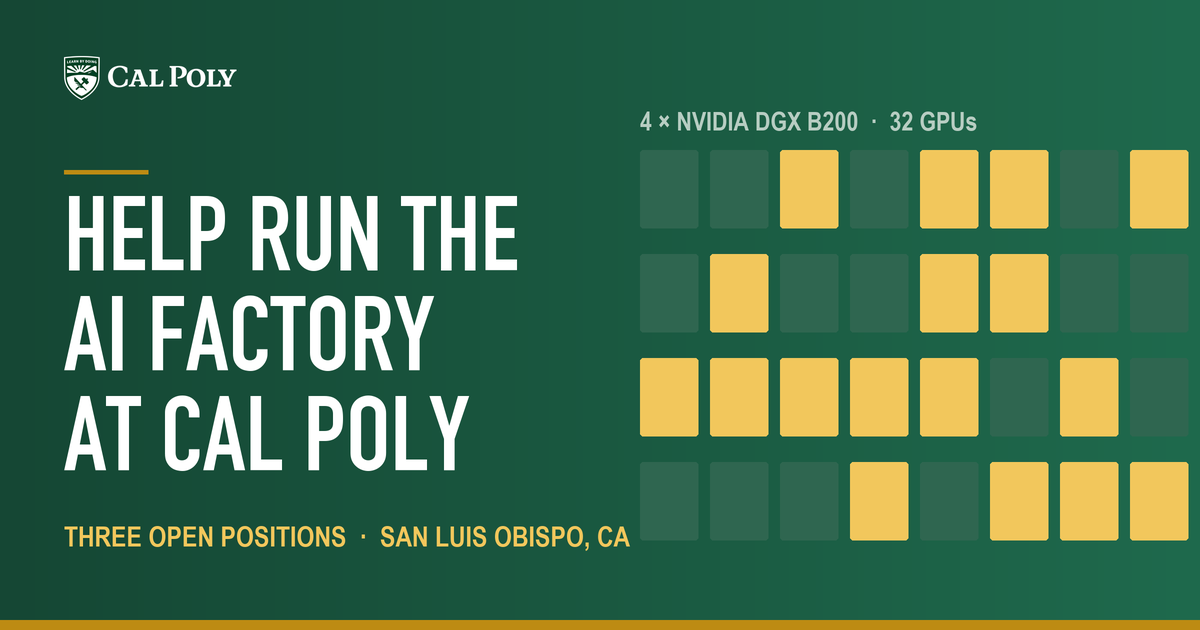
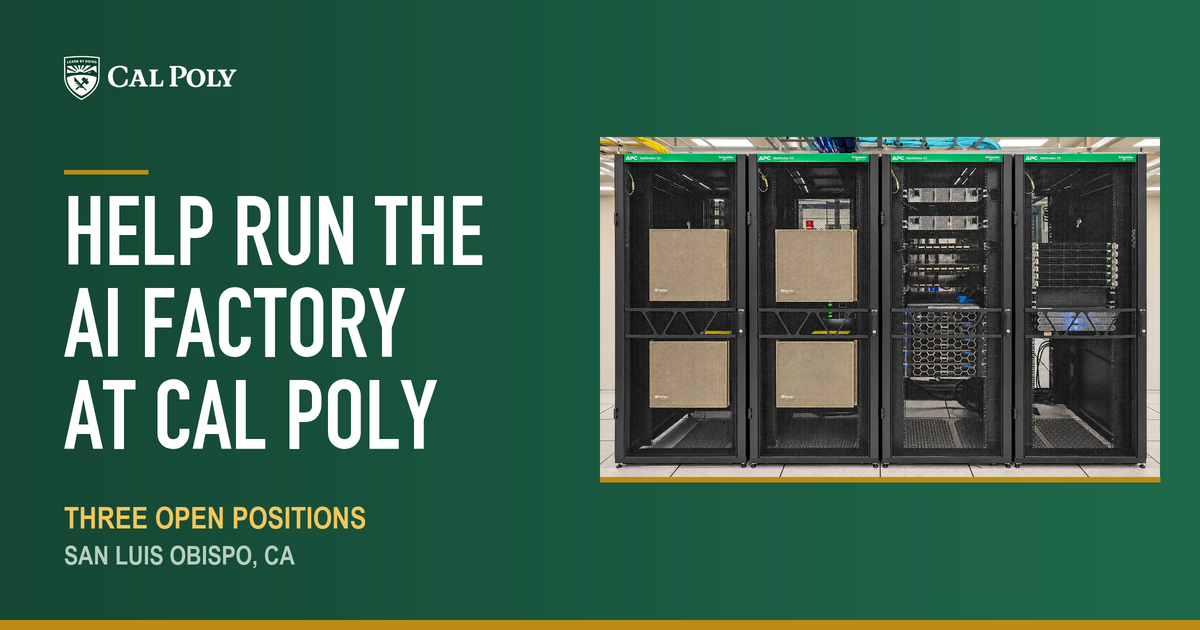
Add hero photo, new link card, rebalance hero

diff --git a/index.html b/index.html
@@ -182,6 +182,34 @@ footer .wrap { padding-block: 32px; font-size: 0.88rem; color: var(--muted); dis
 :root[data-theme="dark"] .sitebar { background: #134030; } :root[data-theme="dark"] .sitebar .sitename, :root[data-theme="dark"] .sitebar nav a { color: #eef3ef; }
 html { scroll-behavior: smooth; }
 @media (prefers-reduced-motion: reduce) { html { scroll-behavior: auto; } }
+
+/* Hero photo + program diagram */
+.hero-photo { margin: 0; min-width: 0; }
+.hero-photo img { display: block; width: 100%; height: auto; border: 1px solid #3f7a63; border-bottom: 4px solid var(--gold); border-radius: 2px; }
+.hero-photo figcaption { margin-top: 10px; font-size: 0.85rem; color: var(--hero-muted); letter-spacing: 0.04em; }
+.program-extra { display: grid; grid-template-columns: 1fr 1fr; gap: clamp(24px, 4vw, 48px); align-items: start; margin-top: 40px; }
+.program-extra .facts { grid-template-columns: 1fr 1fr; margin-top: 0; gap: 8px 0; }
+.program-extra .fact { padding-bottom: 12px; }
+.program-extra .pod { background: var(--hero-bg); border-radius: 2px; }
+@media (max-width: 860px) { .program-extra { grid-template-columns: 1fr; } }
+
+/* Hero v2: headline + copy side by side, photo full width below */
+.hero .wrap { grid-template-columns: 1fr; gap: clamp(28px, 4vw, 48px); align-items: stretch; }
+.hero-top { display: grid; grid-template-columns: 1.15fr 1fr; gap: clamp(24px, 5vw, 64px); align-items: end; }
+.hero-top > * { min-width: 0; }
+.hero h1 { font-size: clamp(3rem, 7vw, 5.6rem); }
+.hero .lede { margin-top: 0; }
+.hero-photo img { aspect-ratio: 21 / 9; object-fit: cover; object-position: 50% 52%; }
+@media (max-width: 860px) { .hero-top { grid-template-columns: 1fr; align-items: start; } .hero-photo img { aspect-ratio: 16 / 9; } }
+
+/* Hero v3: compact headline, full uncropped photo */
+.hero .wrap { padding-block: clamp(36px, 5vw, 56px); gap: clamp(24px, 3vw, 36px); }
+.hero-top { grid-template-columns: 1fr; gap: 24px; align-items: start; }
+.hero h1 { font-size: clamp(2.3rem, 4.9vw, 3.8rem); margin-top: 20px; }
+.hero-copy { display: grid; grid-template-columns: minmax(0, 1.5fr) auto; gap: 20px clamp(24px, 4vw, 56px); align-items: end; }
+.hero-copy .cta-row { margin-top: 0; }
+.hero-photo img { aspect-ratio: auto; object-fit: fill; }
+@media (max-width: 860px) { .hero-copy { grid-template-columns: 1fr; } .hero-photo img { aspect-ratio: auto; } }
 </style>
 </head>
 <body>
@@ -189,30 +217,23 @@ html { scroll-behavior: smooth; }
 <div class="sitebar"><div class="wrap"><a class="sitename" href="#top">AI Factory Careers</a><nav aria-label="Page sections"><a href="#program">Program</a><a href="#roles">Roles</a><a href="#why">Why Cal Poly</a><a href="#apply">Apply</a></nav></div></div>
 <header class="hero" id="top">
   <div class="wrap">
-    <div>
-      <p class="eyebrow">Cal Poly &middot; NVIDIA DGX B200 AI Factory</p>
-      <h1>Help run the <em>AI Factory</em> at Cal Poly</h1>
-      <p class="lede">Cal Poly built an on-campus NVIDIA DGX B200 BasePOD so students and faculty can train and run their own models. <strong>We're hiring the three people who will make it work for them:</strong> a research computing facilitator lead, a systems administrator, and a software engineer.</p>
-      <div class="cta-row">
-        <a class="btn btn-primary" href="#roles">See the three roles</a>
-        <a class="btn btn-ghost" href="#apply">How to apply</a>
+    <div class="hero-top">
+      <div class="hero-title">
+        <p class="eyebrow">Cal Poly &middot; NVIDIA DGX B200 AI Factory</p>
+        <h1>Help run the <em>AI Factory</em> at Cal Poly</h1>
+      </div>
+      <div class="hero-copy">
+        <p class="lede">Cal Poly built an on-campus NVIDIA DGX B200 BasePOD so students and faculty can train and run their own models. <strong>We're hiring the three people who will make it work for them:</strong> a research computing facilitator lead, a systems administrator, and a software engineer.</p>
+        <div class="cta-row">
+          <a class="btn btn-primary" href="#roles">See the three roles</a>
+          <a class="btn btn-ghost" href="#apply">How to apply</a>
+        </div>
       </div>
     </div>
-    <div class="pod" role="img" aria-label="Diagram of the BasePOD: four DGX B200 nodes with eight GPUs each, 32 GPUs in total">
-      <div class="pod-head"><span><b>DGX B200 BasePOD</b></span><span>San Luis Obispo, CA</span></div>
-      <div class="nodes">
-        <div class="node"><span>node-01</span><div class="gpus"><span></span><span style="animation-delay:.3s"></span><span style="animation-delay:.6s"></span><span style="animation-delay:.9s"></span><span style="animation-delay:1.2s"></span><span style="animation-delay:1.5s"></span><span style="animation-delay:1.8s"></span><span style="animation-delay:2.1s"></span></div></div>
-        <div class="node"><span>node-02</span><div class="gpus"><span style="animation-delay:.6s"></span><span style="animation-delay:.9s"></span><span style="animation-delay:1.2s"></span><span style="animation-delay:1.5s"></span><span style="animation-delay:1.8s"></span><span style="animation-delay:2.1s"></span><span style="animation-delay:2.4s"></span><span style="animation-delay:2.7s"></span></div></div>
-        <div class="node"><span>node-03</span><div class="gpus"><span style="animation-delay:1.2s"></span><span style="animation-delay:1.5s"></span><span style="animation-delay:1.8s"></span><span style="animation-delay:2.1s"></span><span style="animation-delay:2.4s"></span><span style="animation-delay:2.7s"></span><span style="animation-delay:3s"></span><span style="animation-delay:3.3s"></span></div></div>
-        <div class="node"><span>node-04</span><div class="gpus"><span style="animation-delay:1.8s"></span><span style="animation-delay:2.1s"></span><span style="animation-delay:2.4s"></span><span style="animation-delay:2.7s"></span><span style="animation-delay:3s"></span><span style="animation-delay:3.3s"></span><span style="animation-delay:3.6s"></span><span style="animation-delay:3.9s"></span></div></div>
-      </div>
-      <div class="pod-foot">
-        <span><b>32</b> &times; NVIDIA B200 GPUs</span>
-        <span><b>VAST</b> high-performance storage</span>
-        <span><b>Slurm</b> + <b>Kubernetes</b></span>
-        <span><b>Run:ai</b> GPU orchestration</span>
-      </div>
-    </div>
+    <figure class="hero-photo">
+      <img src="ai-factory-racks.jpg" width="1600" height="972" alt="Four racks of the NVIDIA DGX B200 BasePOD in the Cal Poly data center">
+      <figcaption>The AI Factory BasePOD, San Luis Obispo</figcaption>
+    </figure>
   </div>
 </header>
 
@@ -230,11 +251,28 @@ html { scroll-behavior: smooth; }
           <p>Faculty are already using it, and classes and research groups are lining up behind them. The three people we hire will form a new team, Academic and Research Computing, that keeps the platform running and gets it in front of the people who need it.</p>
         </div>
       </div>
-      <div class="facts">
+      <div class="program-extra">
+        <div class="facts">
         <div class="fact"><b>4</b><span>NVIDIA DGX B200 systems in one BasePOD</span></div>
         <div class="fact"><b>32</b><span>B200 GPUs for training, fine-tuning and inference</span></div>
         <div class="fact"><b>$3M</b><span>Noyce School investment in the AI Factory</span></div>
         <div class="fact"><b>3</b><span>open positions on a new team</span></div>
+      </div>
+        <div class="pod" role="img" aria-label="Diagram of the BasePOD: four DGX B200 nodes with eight GPUs each, 32 GPUs in total">
+      <div class="pod-head"><span><b>DGX B200 BasePOD</b></span><span>San Luis Obispo, CA</span></div>
+      <div class="nodes">
+        <div class="node"><span>node-01</span><div class="gpus"><span></span><span style="animation-delay:.3s"></span><span style="animation-delay:.6s"></span><span style="animation-delay:.9s"></span><span style="animation-delay:1.2s"></span><span style="animation-delay:1.5s"></span><span style="animation-delay:1.8s"></span><span style="animation-delay:2.1s"></span></div></div>
+        <div class="node"><span>node-02</span><div class="gpus"><span style="animation-delay:.6s"></span><span style="animation-delay:.9s"></span><span style="animation-delay:1.2s"></span><span style="animation-delay:1.5s"></span><span style="animation-delay:1.8s"></span><span style="animation-delay:2.1s"></span><span style="animation-delay:2.4s"></span><span style="animation-delay:2.7s"></span></div></div>
+        <div class="node"><span>node-03</span><div class="gpus"><span style="animation-delay:1.2s"></span><span style="animation-delay:1.5s"></span><span style="animation-delay:1.8s"></span><span style="animation-delay:2.1s"></span><span style="animation-delay:2.4s"></span><span style="animation-delay:2.7s"></span><span style="animation-delay:3s"></span><span style="animation-delay:3.3s"></span></div></div>
+        <div class="node"><span>node-04</span><div class="gpus"><span style="animation-delay:1.8s"></span><span style="animation-delay:2.1s"></span><span style="animation-delay:2.4s"></span><span style="animation-delay:2.7s"></span><span style="animation-delay:3s"></span><span style="animation-delay:3.3s"></span><span style="animation-delay:3.6s"></span><span style="animation-delay:3.9s"></span></div></div>
+      </div>
+      <div class="pod-foot">
+        <span><b>32</b> &times; NVIDIA B200 GPUs</span>
+        <span><b>VAST</b> high-performance storage</span>
+        <span><b>Slurm</b> + <b>Kubernetes</b></span>
+        <span><b>Run:ai</b> GPU orchestration</span>
+      </div>
+    </div>
       </div>
     </div>
   </section>
